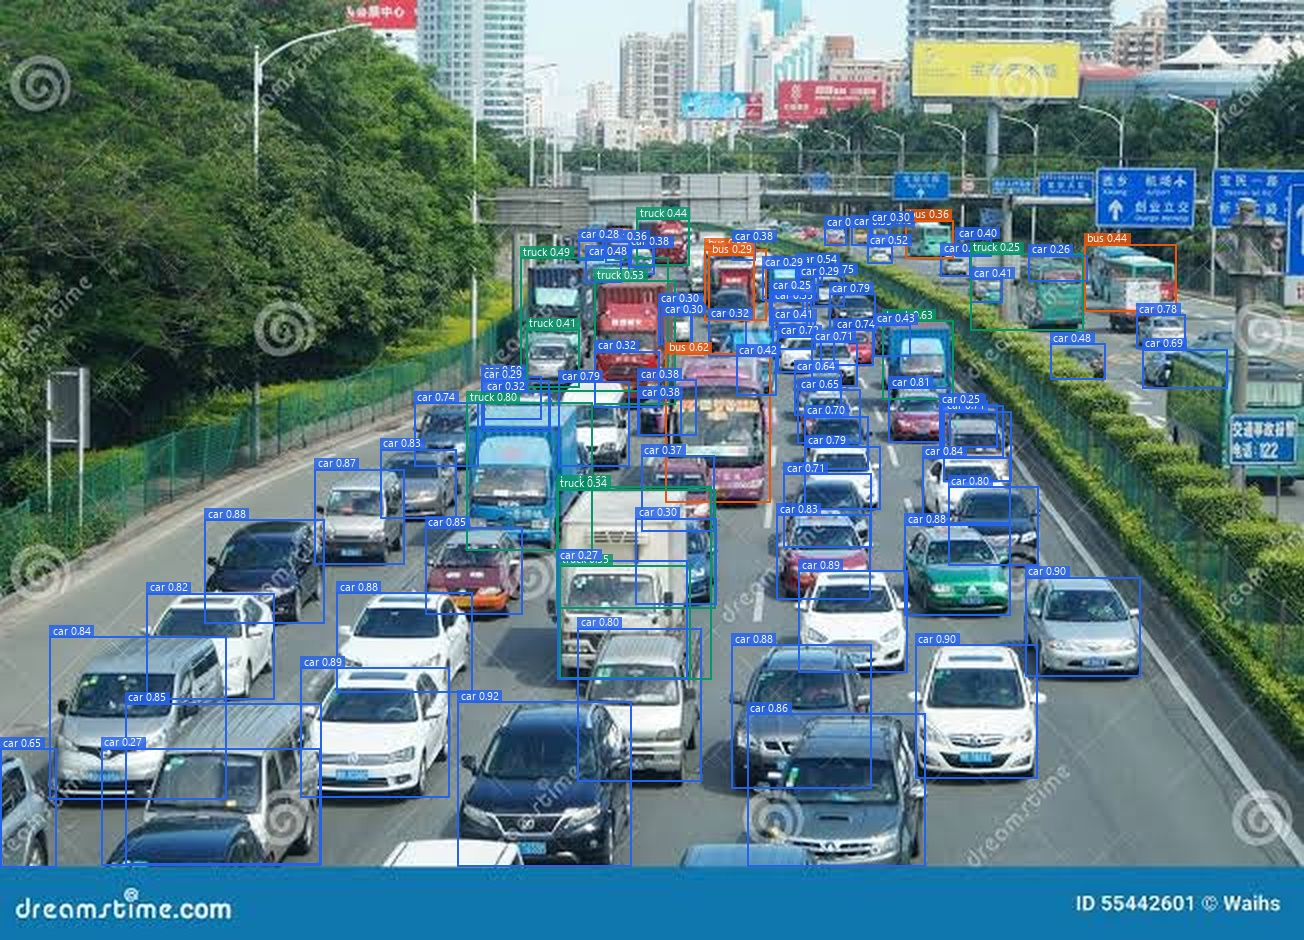
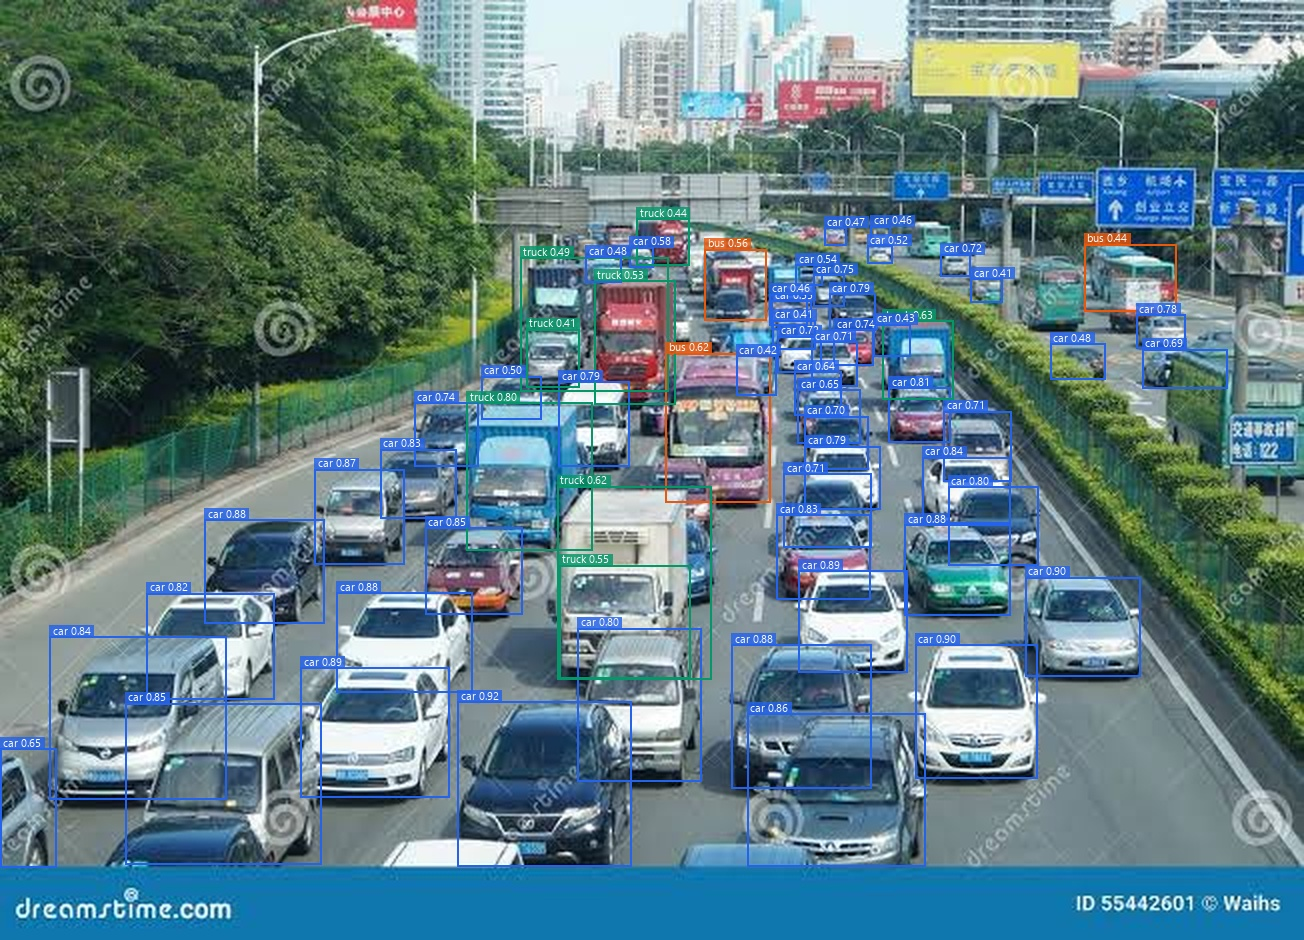
Raise comparison confidence threshold to conf=0.40 for cleaner detections

diff --git a/README.md b/README.md
@@ -14,19 +14,19 @@ Bu proje; Akıllı Ulaşım Sistemleri (ITS) ve Trafik İzleme senaryoları içi
 
 ## 📸 Model Karşılaştırma ve Gerçek Saha Testi (Base vs. v1 vs. v2)
 
-Standart COCO ağırlıklı temel model (**Base YOLO11n**), ilk aşama (**v1 UA-DETRAC YOLO11n**) ve en güncel (**v2 Dengeli Çoklu-Kaynak YOLO11s, 800px**) modelimizin bağımsız gerçek trafik sahnesindeki (`test_samples/user_test_photo.jpg`, `conf=0.25`) karşılaştırması:
+Standart COCO ağırlıklı temel model (**Base YOLO11n**), ilk aşama (**v1 UA-DETRAC YOLO11n**) ve en güncel (**v2 Dengeli Çoklu-Kaynak YOLO11s, 800px**) modelimizin bağımsız gerçek trafik sahnesindeki (`test_samples/user_test_photo.jpg`, `conf=0.40`) karşılaştırması:
 
 ![Base vs v1 vs v2 Model Karşılaştırması](comparison_results/v2_vs_v1_vs_base_comparison.jpg)
 
-| Model | Toplam Tespit | Sınıf Dağılımı | En Yüksek Güven |
-|---|---:|---|---:|
-| **0. Base YOLO11n (COCO)** | 29 araç | `21 car`, `6 bus`, `2 truck` | 0.818 |
-| **1. v1 Baseline (UA-DETRAC YOLO11n, 640px)** | 36 araç | `27 car`, `9 truck`, `0 bus` | 0.904 |
-| **2. v2 Dengeli (UA-DETRAC + VisDrone YOLO11s, 800px)** | **92 araç** | **`77 car`, `10 truck`, `5 bus`** | **0.915** |
+| Model | Toplam Tespit | Sınıf Dağılımı | En Yüksek Güven | Ortalama Güven |
+|---|---:|---|---:|---:|
+| **0. Base YOLO11n (COCO, 640px)** | 18 araç | `15 car`, `3 bus`, `0 truck` | 0.818 | 0.572 |
+| **1. v1 Baseline (UA-DETRAC YOLO11n, 640px)** | 31 araç | `24 car`, `7 truck`, `0 bus` | 0.904 | 0.678 |
+| **2. v2 Dengeli (UA-DETRAC + VisDrone YOLO11s, 800px)** | **63 araç** | **`52 car`, `8 truck`, `3 bus`** | **0.915** | **0.685** |
 
 ### 🔍 Karşılaştırma Analizi (v2 ile Neler Kazanıldı?):
-* **2.55× Daha Fazla Araç Tespiti (`36 → 92`):** `imgsz=800` çözünürlüğü, `YOLO11s` omurgası ve VisDrone2019 yüksek açı verisi sayesinde v1'in tamamen kaçırdığı ufuk çizgisine yakın uzak şeritlerdeki araçlar ve kamyon konvoyu (`truck 0.80`, `truck 0.53`, `truck 0.44`) başarıyla yakalandı.
-* **Sınıf Karışıklığının Giderilmesi (`bus` vs `truck` vs `car`):** v1 modelinin hiç `bus` yakalayamayıp ortadaki yolcu otobüsünü ve öndeki büyük otomobili hatalı `truck` saydığı sahnede; v2 modeli öndeki aracı doğru şekilde `car` (`0.86`) olarak düzeltti ve otobüsleri tekrar `bus` (`5` tespit) olarak ayırt etti.
+* **2× Daha Fazla Yüksek Güvenli Tespit (`31 → 63`):** `conf=0.40` eşiğinde dahi v2 modeli; `imgsz=800` çözünürlüğü, `YOLO11s` omurgası ve VisDrone2019 yüksek açı verisi sayesinde v1'in kaçırdığı arka şeritlerdeki uzak araçları ve kamyon konvoyunu (`truck 0.80`, `truck 0.53`, `truck 0.49`, `truck 0.44`) net biçimde yakaladı.
+* **Sınıf Karışıklığının Giderilmesi (`bus` vs `truck` vs `car`):** v1 modelinin öndeki binek araçları hatalı `truck` (`0.46`) ve ortadaki pembe yolcu otobüsünü hatalı `truck` (`0.65`) etiketlediği sahnede; v2 modeli öndeki araçları doğru şekilde `car` (`0.92`, `0.86`), otobüsleri ise **`bus`** (`0.62`, `0.56`, `0.44`) olarak ayırt etti.
 * **v1 vs v2 Yakın Plan Kıyaslama:** ![v1 vs v2 Karşılaştırması](comparison_results/v2_vs_v1_comparison.jpg)
 
 ---
@@ -135,7 +135,7 @@ federated-traffic-learning/
 ├── comparison_results/                           # Çıkarım karşılaştırma görselleri
 │   ├── v2_vs_v1_vs_base_comparison.jpg           # Base vs v1 vs v2 3'lü saha kıyaslaması (GÜNCEL)
 │   ├── v2_vs_v1_comparison.jpg                   # v1 Baseline vs v2 Dengeli YOLO11s kıyaslaması
-│   ├── pred_v2_balanced_yolo11s.jpg              # v2 Dengeli model tahmin çıktısı (92 araç)
+│   ├── pred_v2_balanced_yolo11s.jpg              # v2 Dengeli model tahmin çıktısı (63 araç, conf=0.40)
 │   ├── detrac_vs_base_comparison.jpg             # v1 vs Pretrained Base kıyaslaması
 │   ├── pred_detrac_yolo11n.jpg                   # v1 model tahmin çıktısı
 │   └── pred_base_yolo11n.jpg                     # Base model tahmin çıktısı
